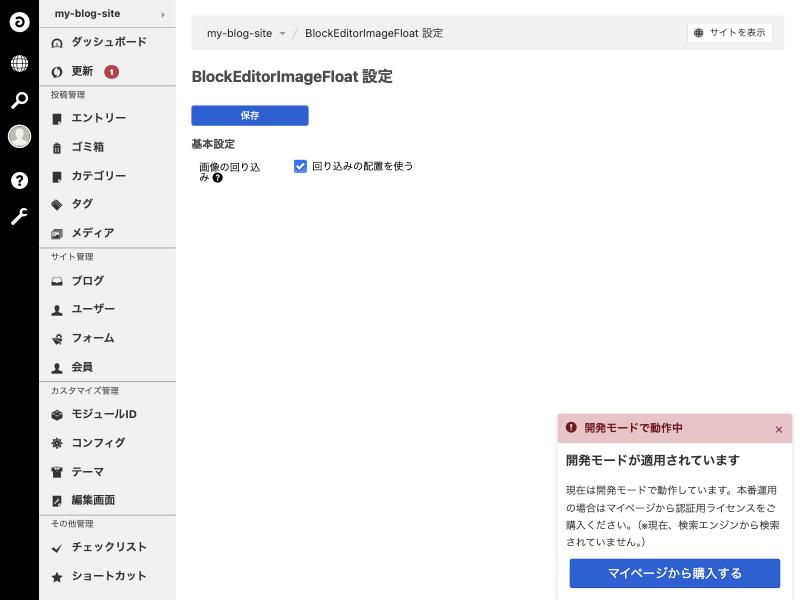
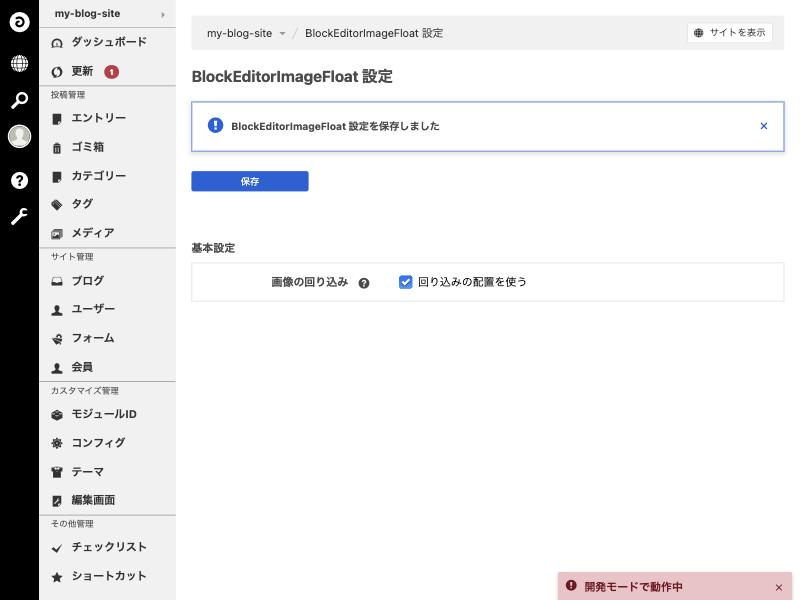
Settings screen: use the core's standard config markup (Admin_Config, adminTable, T tags) instead of a Twig grid

diff --git a/src/template/admin/main.html b/src/template/admin/main.html
@@ -1,0 +1,67 @@
+<header>
+  <div>
+    @include("/admin/topicpath.html")
+  </div>
+  <div>
+    <h1 class="acms-admin-admin-title js-dialog-title">
+      <!--T-->BlockEditorImageFloat 設定<!--/T-->
+    </h1>
+  </div>
+</header>
+
+<!-- BEGIN_MODULE Admin_Config -->
+<!-- BEGIN_IF [{notice_mess}/nem/] -->
+<div role="alert" class="acms-admin-alert acms-admin-alert-icon acms-admin-alert-info">
+  <span class="acms-admin-icon acms-admin-icon-news acms-admin-alert-icon-before" aria-hidden="true"></span>
+  <button
+    type="button"
+    class="js-acms-alert-close acms-admin-alert-icon-after"
+    aria-label="<!--T-->アラートを閉じる<!--/T-->"
+  >
+    ×
+  </button>
+  <!--T-->BlockEditorImageFloat 設定を保存しました<!--/T-->
+</div>
+<!-- END_IF -->
+
+<!-- BEGIN msg#error -->
+<div role="alert" class="acms-admin-alert acms-admin-alert-danger acms-admin-alert-icon">
+  <span class="acms-admin-icon acms-admin-icon-attention acms-admin-alert-icon-before" aria-hidden="true"></span>
+  <button
+    type="button"
+    class="js-acms-alert-close acms-admin-alert-icon-after"
+    aria-label="<!--T-->アラートを閉じる<!--/T-->"
+  >
+    ×
+  </button>
+  <!--T-->コンフィグを保存出来ませんでした。<!--/T-->
+</div>
+<!-- END msg#error -->
+
+<form action="" method="post" class="js-adminSave acms-admin-form">
+  <div class="js-acms_fix_marker acms_fix_bg">
+    <div class="acms-admin-form-group acms_fix_bg_index">
+      <input type="submit" name="ACMS_POST_Config" value="<!--T-->保存<!--/T-->" class="acms-admin-btn-admin acms-admin-btn-admin-primary acms-admin-btn-admin-save js-saving-splash" />
+    </div>
+  </div>
+
+  <h3 class="acms-admin-admin-title2"><!--T-->基本設定<!--/T--></h3>
+  <table class="adminTable acms-admin-table-admin-edit">
+    <tr>
+      <th>
+        <!--T-->画像の回り込み<!--/T-->
+        <i class="acms-admin-icon-tooltip js-acms-tooltip-hover" data-acms-tooltip="<!--T-->オフにすると、ブロックエディターのツールバーに「左に回り込み」「右に回り込み」を表示しません。保存済みの回り込みは通常の画像として表示されます。<!--/T-->"></i>
+      </th>
+      <td>
+        <input type="hidden" name="block_editor_image_float_enabled" value="off" />
+        <div class="acms-admin-form-checkbox">
+          <!-- 未保存（空）のときもオン（既定）として表示する -->
+          <input type="checkbox" name="block_editor_image_float_enabled" value="on"<!-- BEGIN_IF [{block_editor_image_float_enabled}/neq/off] --> checked="checked"<!-- END_IF --> id="input-checkbox-block_editor_image_float_enabled" />
+          <label for="input-checkbox-block_editor_image_float_enabled"><i class="acms-admin-ico-checkbox"></i><!--T-->回り込みの配置を使う<!--/T--></label>
+        </div>
+        <input type="hidden" name="config[]" value="block_editor_image_float_enabled" />
+      </td>
+    </tr>
+  </table>
+</form>
+<!-- END_MODULE Admin_Config -->

diff --git a/src/ServiceProvider.php b/src/ServiceProvider.php
@@ -5,7 +5,6 @@ namespace Acms\Plugins\BlockEditorImageFloat;
 use ACMS_App;
 use Acms\Services\Common\HookFactory;
 use Acms\Services\Common\InjectTemplate;
-use Acms\Services\Facades\Twig;
 
 /**
  * Plugin (extension app) registration class.
@@ -53,23 +52,12 @@ class ServiceProvider extends ACMS_App
     {
         HookFactory::singleton()->attach('BlockEditorImageFloatHook', new Hook());
 
-        // Settings screen (Twig). Shown under the plugin's "settings" link in the extension apps list.
-        Twig::addTemplatePath(PLUGIN_LIB_DIR . 'BlockEditorImageFloat/template', 'block_editor_image_float');
+        // Settings screen: the core's standard config markup (Admin_Config), as in the core and ApiPreview.
         if (defined('ADMIN') && ADMIN === 'app_' . $this->menu) {
             $inject = InjectTemplate::singleton();
-            $inject->add('admin-main', [self::class, 'renderSettingsScreen']);
-            $inject->add('admin-topicpath', PLUGIN_DIR . 'BlockEditorImageFloat/template/admin/topicpath.html');
+            $inject->add('admin-topicpath', PLUGIN_DIR . $this->name . '/template/admin/topicpath.html');
+            $inject->add('admin-main', PLUGIN_DIR . $this->name . '/template/admin/main.html');
         }
-    }
-
-    /**
-     * Render the settings screen (called by InjectTemplate on the plugin settings page).
-     *
-     * @return string
-     */
-    public static function renderSettingsScreen(): string
-    {
-        return Twig::renderTemplate('@block_editor_image_float/admin/main.twig');
     }
 
     /**

diff --git a/tests/phpunit/Unit/ServiceProviderTest.php b/tests/phpunit/Unit/ServiceProviderTest.php
@@ -59,15 +59,4 @@ final class ServiceProviderTest extends TestCase
 
         $this->assertInstanceOf(Hook::class, HookFactory::singleton()->getHook('BlockEditorImageFloatHook'));
     }
-
-    #[Test]
-    #[TestDox('renderSettingsScreen() renders the Twig settings template')]
-    public function renderSettingsScreenRendersTheTemplate(): void
-    {
-        (new ServiceProvider())->init();
-
-        $html = ServiceProvider::renderSettingsScreen();
-
-        $this->assertStringContainsString('block_editor_image_float_enabled', $html);
-    }
 }

diff --git a/docs/design.md b/docs/design.md
@@ -624,7 +624,7 @@ export const resources = {
 | 読み込み条件 | `ADMIN` が真のとき | `ADMIN` が真、または公開側でダイレクト編集が有効（`Entry::isDirectEditEnabled()`）のとき | 公開側テーマ上のダイレクト編集でもブロックエディターが出る（develop テーマが対応）ため。 |
 | エディター用 CSS | `.ProseMirror` 直下 | コアのエディターのルート `.acms-admin-block-editor` の内側に限定。独自に付けるクラス名は `acms-admin-` プレフィックス（現在は独自クラスなし） | 他の ProseMirror への副作用を避ける／命名規則。 |
 | CSS のセレクター | `.media-image-block[data-align…]` | `[data-type="imageBlock"][data-align…]`（クラス名ではなく、ノード種別を表す data-type 属性に当てる） | 見た目用のクラス名に依存しないため（ユーザー指示）。エディター内・保存 HTML のどちらにも `data-type="imageBlock"` が付く。 |
-| 設定画面 | なし | 拡張アプリの設定画面（Twig）に機能のオン / オフ（`block_editor_image_float_enabled`）を追加。オフのときは JS / CSS を読み込まない。設定はブログのコンフィグから `Config::loadBlogConfig()` で直接読む（コンフィグセットを使うブログでは `config()` に見えないため） | 運用で機能を止められるようにする（要望）。 |
+| 設定画面 | なし | 拡張アプリの設定画面（コアの設定画面と同じ標準マークアップ：`Admin_Config`・`adminTable`・`<!--T-->`。ApiPreview と同じ流儀。Twig は使わない）に機能のオン / オフ（`block_editor_image_float_enabled`）を追加。オフのときは JS / CSS を読み込まない。設定はブログのコンフィグから `Config::loadBlogConfig()` で直接読む（コンフィグセットを使うブログでは `config()` に見えないため） | 運用で機能を止められるようにする（要望）。 |
 | PHPUnit | Unit と Integration の 2 スイート | Unit のみ（Integration ディレクトリは削除） | サンプルのテストを削除したため。 |
 | カバレッジ | 指定なし | vitest は 90% しきい値（`npm run test:coverage`）、PHP は `composer coverage`（pcov。`phpunit.coverage.xml.dist`） | TDD とカバレッジ 90% 以上の方針。コアの autoload は `extension/plugins/` 側のパスを使うため、PHP のカバレッジはそのパスを対象にした別設定が必要。 |
 | CI | `frontend` ジョブは typecheck / test / build / diff | `npm run test:coverage` に置き換え、`quality` ジョブで PHP のカバレッジも実行 | 同上。 |
